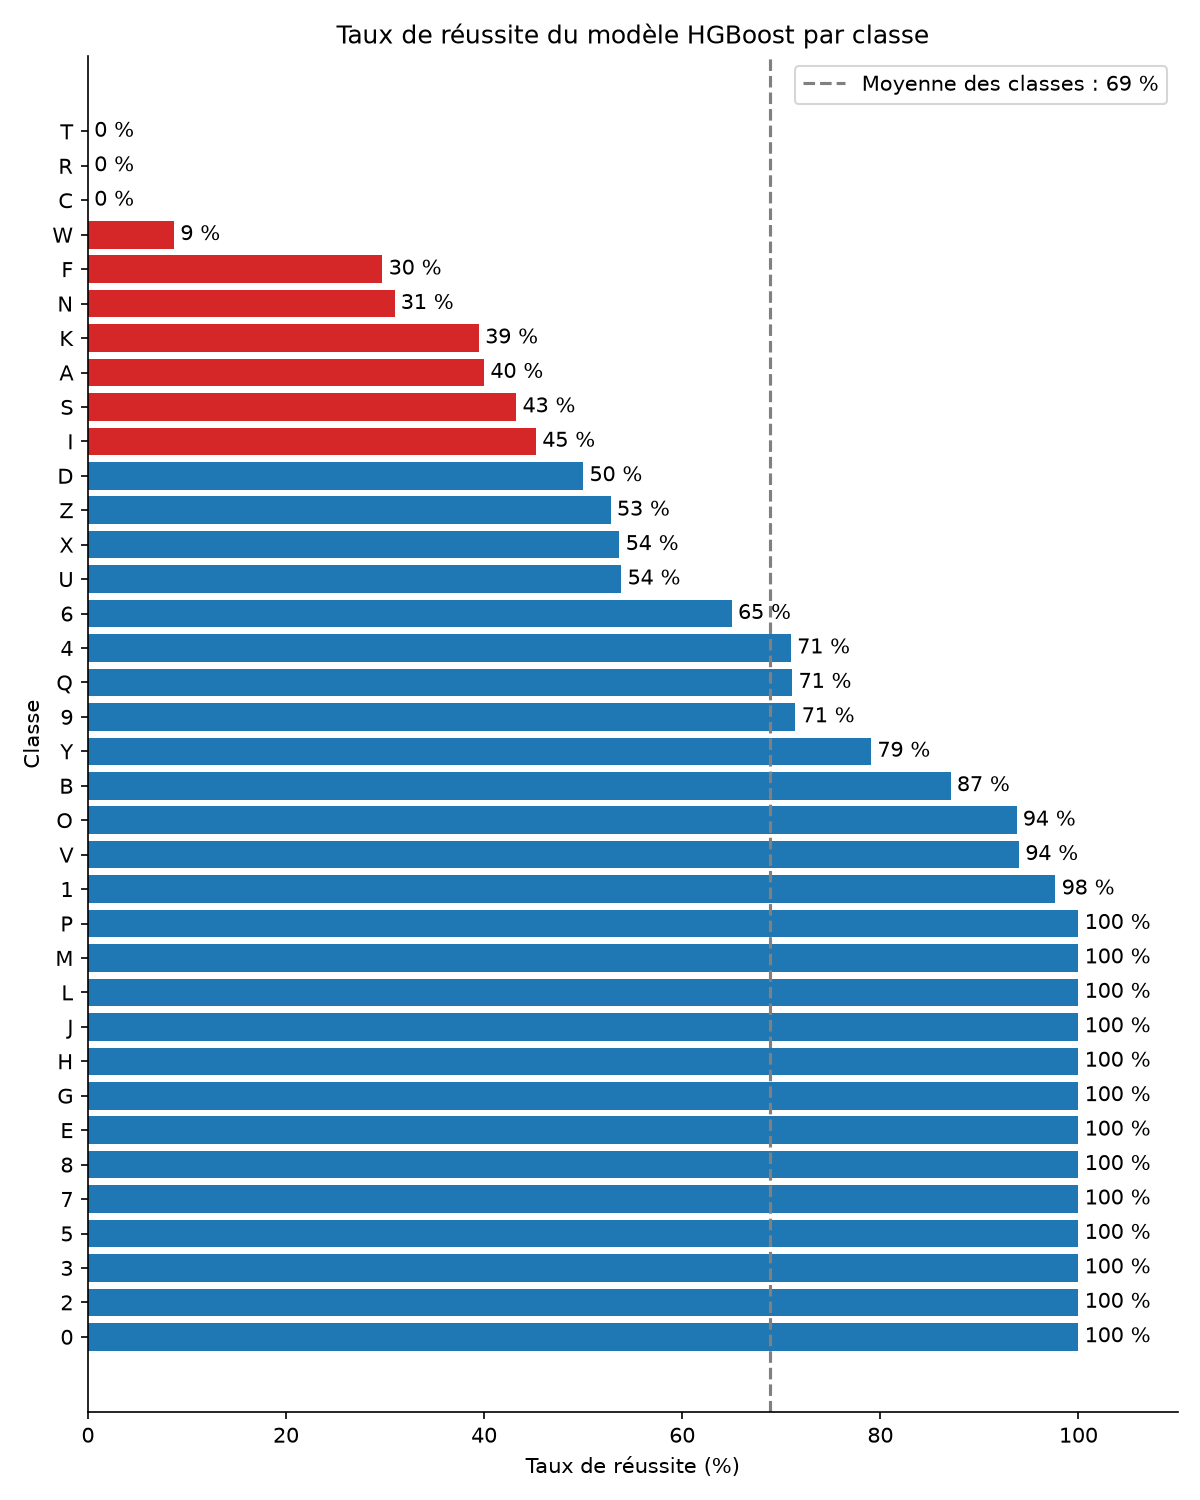
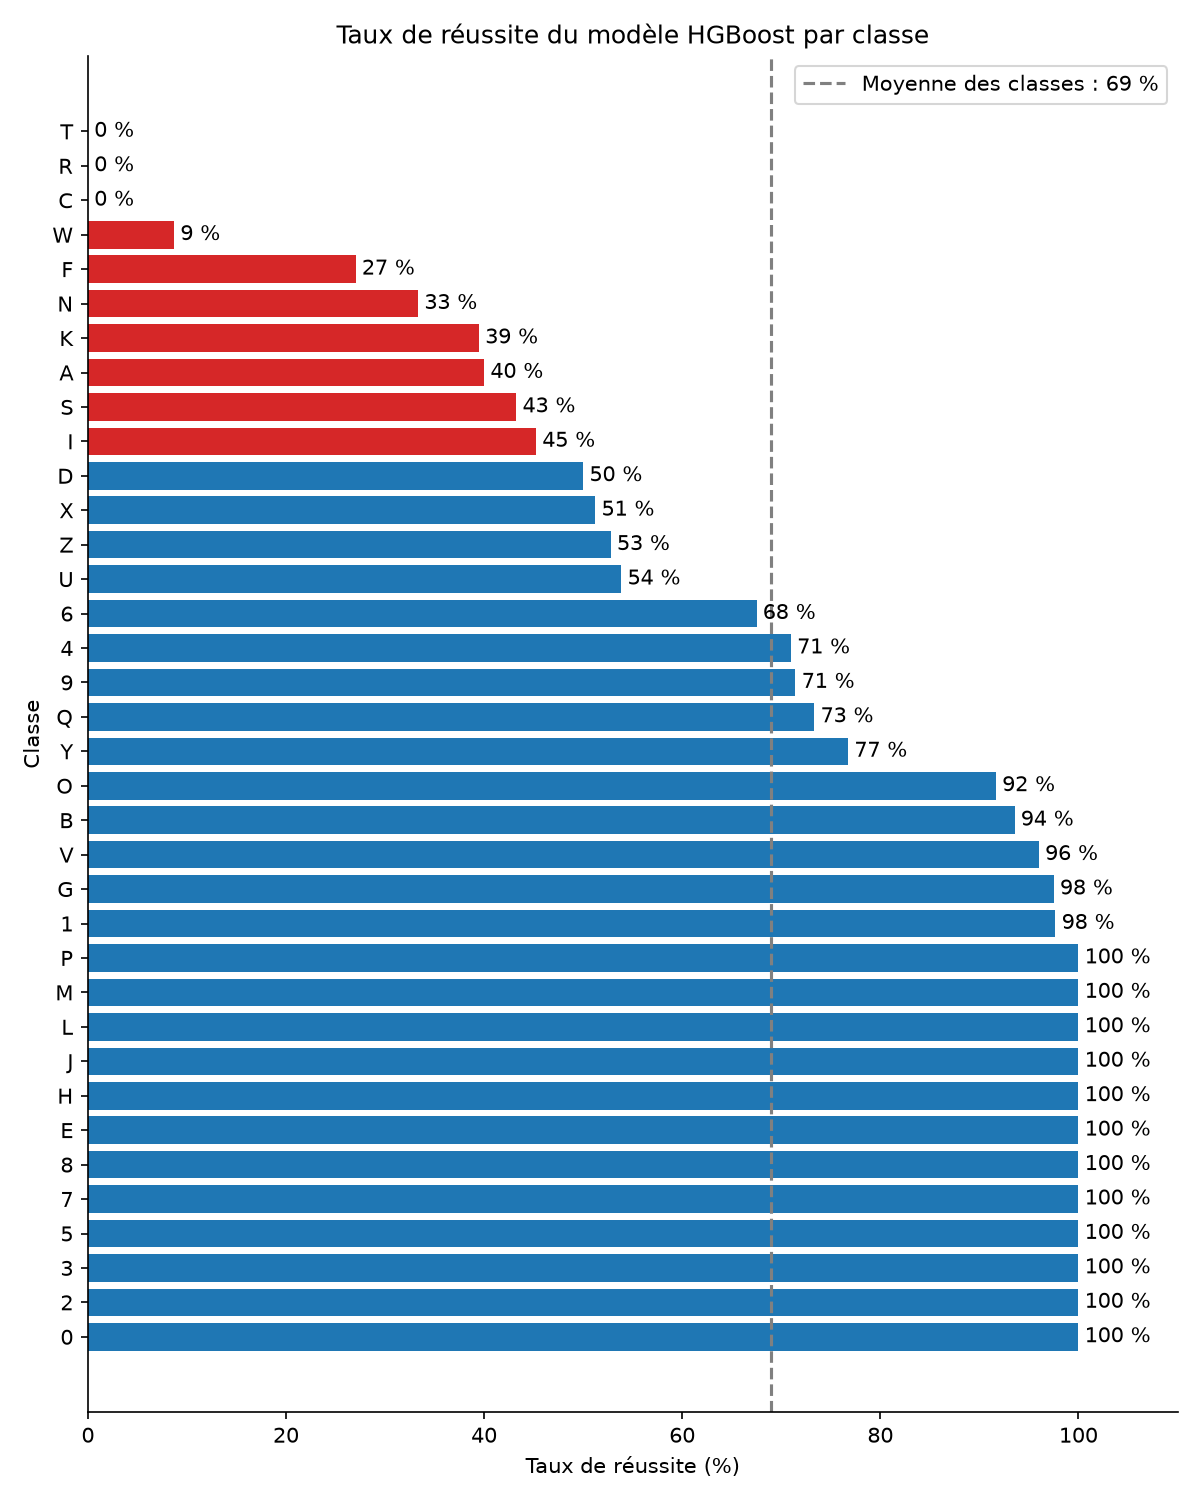
feat: teste RégressionLogistique et ajoute son graphique

diff --git a/src/reussite.py b/src/reussite.py
@@ -2,9 +2,9 @@ import os
 import pandas as pd
 import matplotlib.pyplot as plt
 from tools import detecteur, charger_image, extraire_vecteur, chronometrer, charger_modele
-from config import RACINE, DOSSIER_IMAGES_TEST, PERSONNES_TEST,CHEMIN_MODELE_FORET,CHEMIN_MODELE_HGBOOST
+from config import RACINE, DOSSIER_IMAGES_TEST, PERSONNES_TEST,CHEMIN_MODELE_FORET,CHEMIN_MODELE_HGBOOST, CHEMIN_MODELE_REGRESSION
 
-modeles = [CHEMIN_MODELE_FORET,CHEMIN_MODELE_HGBOOST]
+modeles = [CHEMIN_MODELE_FORET,CHEMIN_MODELE_HGBOOST,CHEMIN_MODELE_REGRESSION]
 
 def verifier_dossier(dossier: str) -> None:
     """Vérifie que le dossier d'images existe.
@@ -77,6 +77,8 @@ def main() -> None:
             nom = "RandomForestClassifier"
         elif m == CHEMIN_MODELE_HGBOOST:
             nom = "HGBoost"
+        else:
+            nom = "RégressionLogistique"
         generer_graphique(par_classe, nom)
         print(f"Global : {df['réussite'].mean():.2%}")
 
